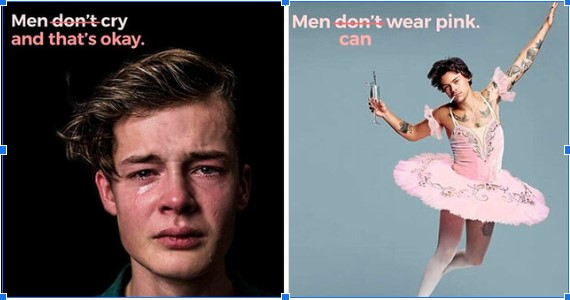
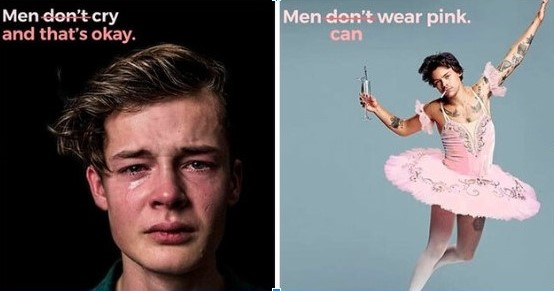
Add files via upload

diff --git a/homepage.css b/homepage.css
@@ -89,12 +89,12 @@
   
   .images img {
     background-color: #97ced0;
-    width: 80%; /* Make sure the image takes up the full width of its container */
-    height: auto;
+    width: auto; /* Make sure the image takes up the full width of its container */
+    height: 40vh;
   }
   
   .slide button {
-    background-color: #4CAF50;
+    background-color: #96DED1;
     color: white;
     padding: 1vh 2vw;
     text-align: center;
